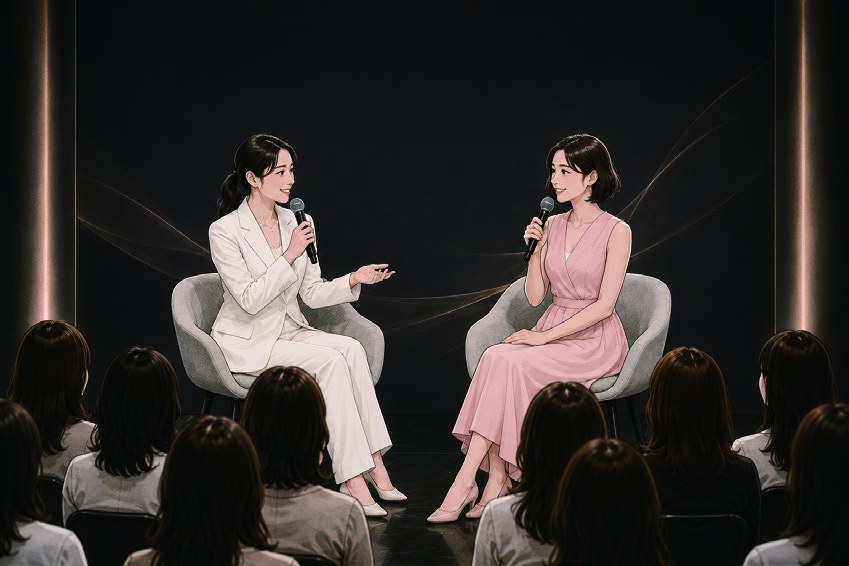
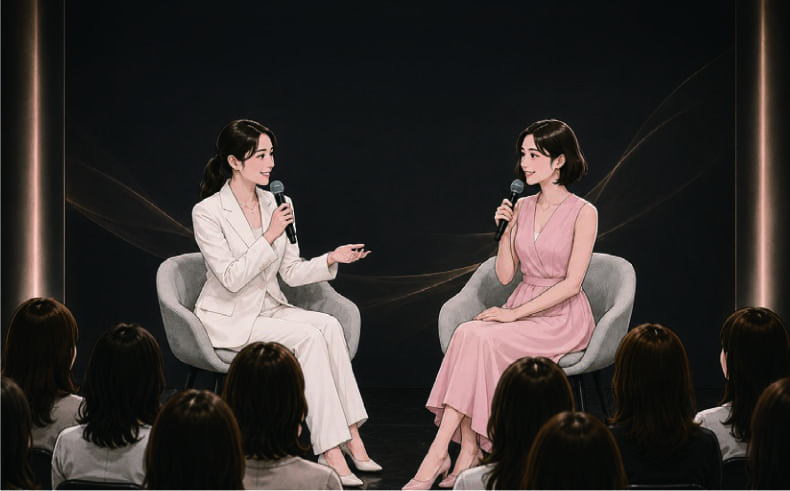
Refine program typography and replace event images

diff --git a/assets/css/kirei2026.css b/assets/css/kirei2026.css
@@ -402,9 +402,9 @@
 
 .kirei2026-program-card__body h3 {
 	color: var(--program-accent);
-	font-family: "Yu Mincho", "Hiragino Mincho ProN", serif;
+	font-family: "Noto Serif JP", "Yu Mincho", "Hiragino Mincho ProN", serif;
 	font-size: clamp(42px, 5vw, 66px);
-	font-weight: 500;
+	font-weight: 400;
 	letter-spacing: .14em;
 	line-height: 1;
 	margin: 0 0 24px;

diff --git a/page-kirei2026.php b/page-kirei2026.php
@@ -78,6 +78,16 @@ if ( ! function_exists( 'kirei2026_accent_class' ) ) {
 	}
 }
 
+if ( ! function_exists( 'kirei2026_versioned_asset_url' ) ) {
+	function kirei2026_versioned_asset_url( $relative_path ) {
+		$relative_path = '/' . ltrim( $relative_path, '/' );
+		$file_path     = get_stylesheet_directory() . $relative_path;
+		$file_url      = get_stylesheet_directory_uri() . $relative_path;
+
+		return file_exists( $file_path ) ? add_query_arg( 'ver', (string) filemtime( $file_path ), $file_url ) : $file_url;
+	}
+}
+
 $default_schedules = array(
 	array(
 		'schedule_area'    => '横浜会場',
@@ -106,7 +116,7 @@ $default_programs = array(
 		'program_lead'        => 'キレイはここからはじまる',
 		'program_title'       => 'メイクアップショーステージ',
 		'program_description' => 'さまざまなシチュエーションを想定したメイクデモンストレーション。化粧品の使い方のコツもお伝えします。',
-		'program_image'       => $asset_base . 'program-see.jpg',
+		'program_image'       => kirei2026_versioned_asset_url( '/assets/image/kirei2026/program-see.jpg' ),
 		'program_image_alt'   => 'メイクアップショーのイメージ',
 		'program_color'       => 'rose',
 	),
@@ -115,7 +125,7 @@ $default_programs = array(
 		'program_lead'        => 'キレイのヒントがここにある',
 		'program_title'       => '美容トークショー「〜輝け、新しい私〜」',
 		'program_description' => '美しさを育むヒントや、年齢を重ねることを前向きに楽しむための考え方などをお届けします。',
-		'program_image'       => $asset_base . 'program-listen.jpg',
+		'program_image'       => kirei2026_versioned_asset_url( '/assets/image/kirei2026/program-listen.jpg' ),
 		'program_image_alt'   => '美容トークショーのイメージ',
 		'program_color'       => 'green',
 	),
@@ -124,7 +134,7 @@ $default_programs = array(
 		'program_lead'        => 'キレイを手に入れる',
 		'program_title'       => 'タッチアップブース',
 		'program_description' => 'スキンケアからベースメイクまで、ミキの化粧品を見て、触れて、お試しいただけます。',
-		'program_image'       => $asset_base . 'program-touch.jpg',
+		'program_image'       => kirei2026_versioned_asset_url( '/assets/image/kirei2026/program-touch.jpg' ),
 		'program_image_alt'   => 'タッチアップブースのイメージ',
 		'program_color'       => 'blue',
 	),
